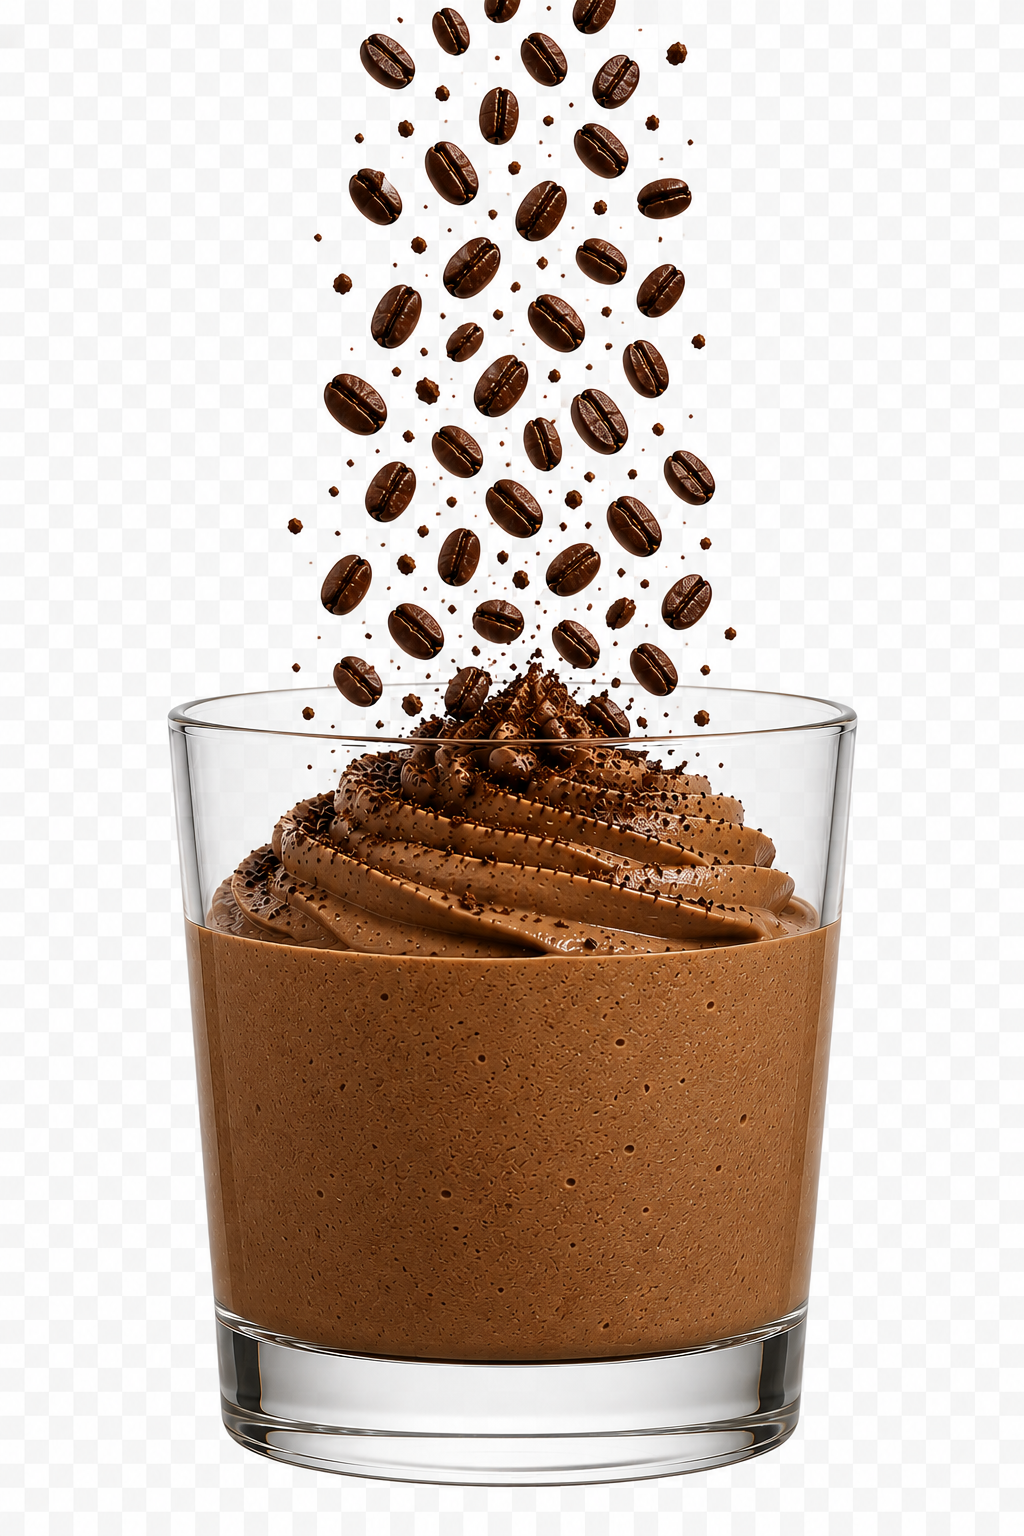
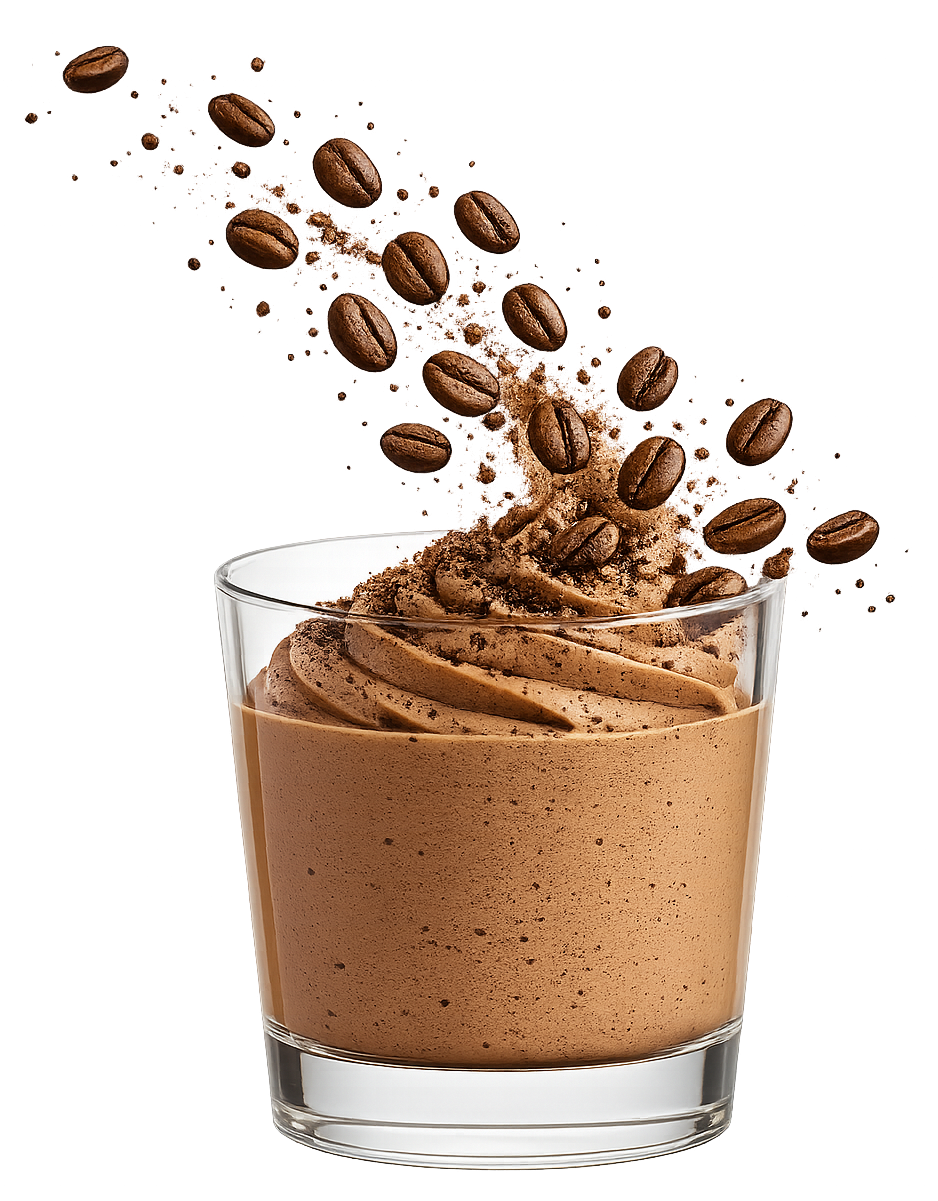
feat: implement Mokka landing page with hero section, R&D carousel, and custom interactive cursor

diff --git a/components/custom-cursor.tsx b/components/custom-cursor.tsx
@@ -3,17 +3,14 @@
 import { useEffect, useRef } from 'react'
 
 export function CustomCursor() {
-  const dotRef  = useRef<HTMLDivElement>(null)
-  const ringRef = useRef<HTMLDivElement>(null)
+  const cursorRef = useRef<HTMLDivElement>(null)
+  const dotRef    = useRef<HTMLDivElement>(null)
 
   useEffect(() => {
     let mouseX = -200
     let mouseY = -200
-    let ringX  = -200
-    let ringY  = -200
     let raf: number
 
-    // Keep ring listener list current (new links may mount after initial render)
     let rafCount = 0
     const REFRESH_INTERVAL = 60 // refresh link listeners every ~60 frames
 
@@ -22,10 +19,11 @@ export function CustomCursor() {
       mouseY = e.clientY
     }
 
-    const lerp = (a: number, b: number, t: number) => a + (b - a) * t
+    const onMouseDown = () => dotRef.current?.classList.add('cursor-click')
+    const onMouseUp   = () => dotRef.current?.classList.remove('cursor-click')
 
-    const onEnterLink = () => ringRef.current?.classList.add('cursor-hover')
-    const onLeaveLink = () => ringRef.current?.classList.remove('cursor-hover')
+    const onEnterLink = () => dotRef.current?.classList.add('cursor-hover')
+    const onLeaveLink = () => dotRef.current?.classList.remove('cursor-hover')
 
     const attachLinkListeners = () => {
       document.querySelectorAll('a, button, [role="button"], input, label').forEach((el) => {
@@ -38,19 +36,12 @@ export function CustomCursor() {
     }
 
     const tick = () => {
-      // Dot: zero delay — follows mouse exactly
-      if (dotRef.current) {
-        dotRef.current.style.transform = `translate(${mouseX}px, ${mouseY}px) translate(-50%, -50%)`
+      // Wrapper follows mouse exactly
+      if (cursorRef.current) {
+        cursorRef.current.style.transform = `translate(${mouseX}px, ${mouseY}px)`
       }
 
-      // Ring: zero delay
-      ringX = mouseX
-      ringY = mouseY
-      if (ringRef.current) {
-        ringRef.current.style.transform = `translate(${ringX}px, ${ringY}px) translate(-50%, -50%)`
-      }
-
-      // Periodically re-attach listeners to catch dynamically added links
+      // Periodically re-attach listeners
       rafCount++
       if (rafCount % REFRESH_INTERVAL === 0) attachLinkListeners()
 
@@ -58,11 +49,16 @@ export function CustomCursor() {
     }
 
     window.addEventListener('mousemove', onMove, { passive: true })
+    window.addEventListener('mousedown', onMouseDown, { passive: true })
+    window.addEventListener('mouseup', onMouseUp, { passive: true })
+    
     attachLinkListeners()
     raf = requestAnimationFrame(tick)
 
     return () => {
       window.removeEventListener('mousemove', onMove)
+      window.removeEventListener('mousedown', onMouseDown)
+      window.removeEventListener('mouseup', onMouseUp)
       cancelAnimationFrame(raf)
     }
   }, [])
@@ -71,42 +67,44 @@ export function CustomCursor() {
     <>
       <style>{`
         /* cursor: none is set globally in globals.css for pointer: fine devices */
-        @media (pointer: coarse) { .mokka-cursor { display: none !important; } }
+        @media (pointer: coarse) { .mokka-cursor-wrapper { display: none !important; } }
 
-        .mokka-cursor-dot {
+        .mokka-cursor-wrapper {
           position: fixed;
           top: 0; left: 0;
-          width: 7px; height: 7px;
-          border-radius: 50%;
-          background: oklch(0.52 0.1 155);
           pointer-events: none;
           z-index: 99999;
           will-change: transform;
           mix-blend-mode: difference;
         }
 
-        .mokka-cursor-ring {
-          position: fixed;
-          top: 0; left: 0;
-          width: 34px; height: 34px;
+        .mokka-cursor-dot {
+          position: absolute;
+          top: 50%; left: 50%;
+          transform: translate(-50%, -50%) scale(1);
+          width: 24px; height: 24px; /* Even larger base size */
           border-radius: 50%;
-          border: 1.5px solid oklch(0.52 0.1 155 / 0.55);
-          pointer-events: none;
-          z-index: 99998;
-          will-change: transform;
-          transition: width 0.2s cubic-bezier(0.22,1,0.36,1),
-                      height 0.2s cubic-bezier(0.22,1,0.36,1),
-                      border-color 0.2s ease;
+          background: oklch(0.52 0.1 155);
+          will-change: width, height, transform, background-color;
+          transition: width 0.3s cubic-bezier(0.22,1,0.36,1),
+                      height 0.3s cubic-bezier(0.22,1,0.36,1),
+                      background-color 0.3s ease,
+                      transform 0.15s cubic-bezier(0.22,1,0.36,1);
         }
 
-        .mokka-cursor-ring.cursor-hover {
-          width: 50px;
-          height: 50px;
-          border-color: oklch(0.82 0.07 82 / 0.75);
+        .mokka-cursor-dot.cursor-hover {
+          width: 64px;
+          height: 64px;
+        }
+
+        /* Shrinks down with a springy feel when clicked */
+        .mokka-cursor-dot.cursor-click {
+          transform: translate(-50%, -50%) scale(0.65);
         }
       `}</style>
-      <div ref={dotRef}  className="mokka-cursor mokka-cursor-dot"  aria-hidden="true" />
-      <div ref={ringRef} className="mokka-cursor mokka-cursor-ring" aria-hidden="true" />
+      <div ref={cursorRef} className="mokka-cursor-wrapper" aria-hidden="true">
+        <div ref={dotRef} className="mokka-cursor-dot" />
+      </div>
     </>
   )
 }

diff --git a/app/page.tsx b/app/page.tsx
@@ -92,43 +92,38 @@ export default function HomePage() {
               </div>
             </div>
 
-            {/* Right column — product image (contained card) */}
-            <div className="animate-fade-in-up animation-delay-400 relative mx-auto w-full max-w-sm lg:mx-0 lg:w-[340px] xl:w-[400px]">
-              <div className="relative aspect-[4/5] overflow-hidden rounded-[2.5rem] border border-border/50 shadow-2xl shadow-black/40">
+            {/* Right column — product image (transparent PNG) */}
+            <div className="animate-fade-in-up animation-delay-400 relative mx-auto hidden w-full max-w-lg lg:block lg:mx-0 lg:w-[530px] xl:w-[620px]">
+              <div className="relative aspect-[4/5]">
                 <Image
                   src="/images/hero-mokka.png"
                   alt="Vasitos de MOKKA, postre de chocolate y café, presentados sobre una superficie de estudio"
                   fill
                   priority
                   sizes="(max-width: 1024px) 90vw, 400px"
-                  className="object-cover"
+                  className="object-contain"
                 />
-                <div className="absolute inset-0 bg-background/10" />
               </div>
 
-              {/* Floating "Listo para consumir" badge */}
-              <span className="animate-float-badge absolute -bottom-4 left-2 sm:-left-5 rounded-2xl bg-accent px-4 py-2.5 font-display text-sm tracking-wide text-accent-foreground shadow-xl shadow-black/30">
-                Listo para consumir
-              </span>
-
-              {/* Floating right badges */}
-              {/* Badge 1: Rectangular card */}
-              <div className="animate-float-badge animation-delay-100 absolute top-16 -right-16 z-10 hidden w-40 flex-col gap-1 rounded-2xl border border-border bg-card/90 p-4 shadow-xl shadow-black/20 backdrop-blur-sm sm:flex">
-                <span className="text-[0.65rem] font-semibold tracking-wider text-muted-foreground uppercase">
+              {/* Floating "Carragenina Kappa" badge -> BOTTOM RIGHT */}
+              <div className="animate-float-badge absolute bottom-12 right-2 sm:-right-4 rounded-xl bg-accent px-5 py-3.5 shadow-xl shadow-black/30 z-20">
+                <span className="block text-[0.65rem] font-bold tracking-[0.2em] text-accent-foreground/70 uppercase mb-0.5">
                   Agente clave
                 </span>
-                <span className="font-display text-sm leading-tight text-foreground">
+                <span className="block font-display text-base leading-none tracking-wide text-accent-foreground">
                   CARRAGENINA KAPPA
                 </span>
               </div>
 
-              {/* Badge 2: Circular number */}
-              <div className="animate-float-badge animation-delay-500 absolute bottom-24 -right-10 z-10 hidden size-24 place-items-center rounded-full border-4 border-background bg-primary shadow-xl shadow-black/20 sm:grid">
-                <div className="text-center">
-                  <span className="block font-display text-3xl leading-none text-primary-foreground">
+              {/* Floating left badges */}
+
+              {/* Badge 2: Circular number -> moved OVER IMAGE ON THE LEFT */}
+              <div className="animate-float-badge animation-delay-500 absolute bottom-48 left-16 sm:left-12 z-20 hidden size-28 place-items-center rounded-full border-4 border-background bg-primary shadow-xl shadow-black/20 sm:grid">
+                <div className="text-center mt-1">
+                  <span className="block font-display text-4xl leading-none text-primary-foreground">
                     90
                   </span>
-                  <span className="block text-[0.65rem] font-bold tracking-widest text-primary-foreground/80 uppercase">
+                  <span className="block text-[0.65rem] font-bold tracking-widest text-primary-foreground/90 uppercase">
                     gramos
                   </span>
                 </div>

diff --git a/components/rd-carousel.tsx b/components/rd-carousel.tsx
@@ -15,15 +15,6 @@ const SLIDES = [
   },
   {
     num: '02',
-    phase: 'Las materias primas',
-    title: 'EL SORTEO',
-    subtitle: 'Carragenina kappa + Café',
-    text: 'Dos ingredientes con propiedades funcionales poderosas. La carragenina kappa como agente gelificante. El café arábica como agente aromatizante y funcional.',
-    chip: 'MP del sorteo',
-    subtitleColor: 'text-moss',
-  },
-  {
-    num: '03',
     phase: 'Primera prueba',
     title: 'PROTOTIPO 1',
     subtitle: 'Gel demasiado firme',
@@ -32,7 +23,7 @@ const SLIDES = [
     subtitleColor: 'text-terracotta',
   },
   {
-    num: '04',
+    num: '03',
     phase: 'El proceso clave',
     title: 'GELIFICACIÓN',
     subtitle: 'En frío, a 4°C',
@@ -41,7 +32,7 @@ const SLIDES = [
     subtitleColor: 'text-primary',
   },
   {
-    num: '05',
+    num: '04',
     phase: 'La solución',
     title: 'FÓRMULA FINAL',
     subtitle: '1.2% carragenina',
@@ -50,7 +41,7 @@ const SLIDES = [
     subtitleColor: 'text-cream',
   },
   {
-    num: '06',
+    num: '05',
     phase: 'El resultado',
     title: 'MOKKA',
     subtitle: 'Vasito 90g · Listo para consumir',